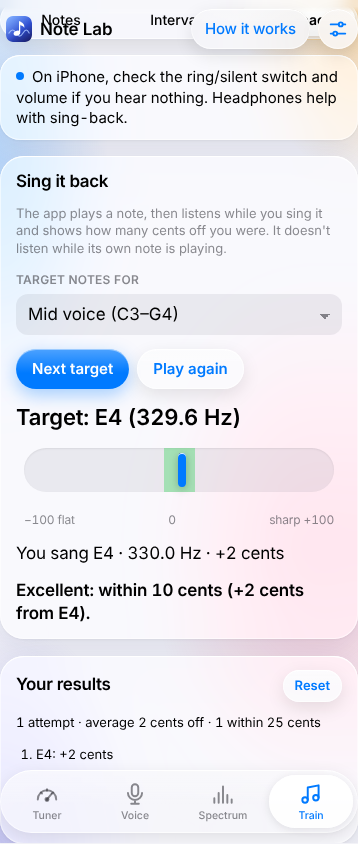
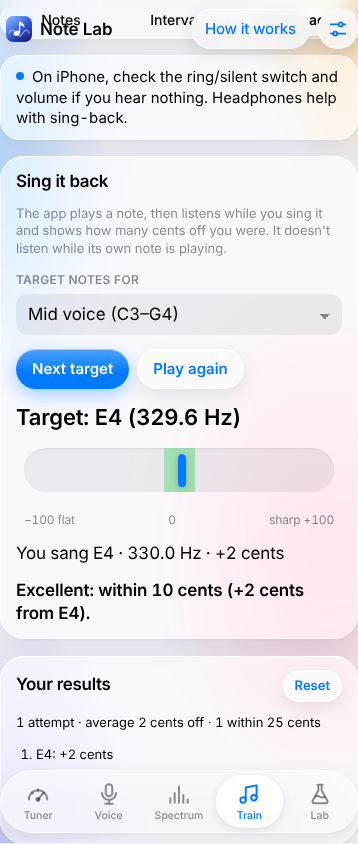
Test and document the waveform tool
Chromium with a fake 440 Hz mic reads T = 2.273 ms -> 440.0 Hz and
reports echo cancellation, noise suppression and auto gain off.

Claude-Session: https://claude.ai/code/session_01SxLsZFKHC9uUtv3xK6kA73

diff --git a/tools/browser-test.js b/tools/browser-test.js
@@ -62,6 +62,14 @@ const fakeMic = (file) => openPage([
   '--autoplay-policy=no-user-gesture-required',
 ], ['microphone']);
 
+// Screenshot of a Lab tool page from the top (the page header is sticky, so
+// element screenshots further down would have it drawn over them).
+async function labScreenshot(page, name) {
+  await page.evaluate(() => window.scrollTo(0, 0));
+  await page.waitForTimeout(200);
+  await page.screenshot({ path: `${ROOT}docs/screenshots/${name}.png` });
+}
+
 // Read an element 8 times over ~1.6 s; return the most common text and all readings.
 async function mostCommonText(page, selector) {
   const seen = {};
@@ -325,6 +333,38 @@ try {
     await page.goto(`${URL_}how-it-works.html`);
     const offlineGuide = (await page.textContent('h1')) === 'How it works';
     report(offlineOk && offlineGuide && !errors.length, 'works offline after the first visit (app and guide page)', errors.join(' '));
+    await browser.close();
+  }
+
+  // 3. Acoustics Lab ------------------------------------------------------
+
+  // 3.1 Waveform: a 440 Hz sine should show T = 2.273 ms → 440 Hz.
+  {
+    const { browser, page, errors } = await fakeMic('sine-A4.wav');
+    await page.click('#tab-lab');
+    report(await page.isVisible('#lab-grid') && !(await page.isVisible('#start-panel')), 'lab: menu opens without the microphone');
+    await page.click('#lab-open-waveform');
+    report(await page.isVisible('#lab-need-mic'), 'lab waveform: asks for the microphone first');
+    await page.click('#lab-start-mic');
+    await page.waitForTimeout(1200);
+    const { text: period } = await mostCommonText(page, '#wave-period');
+    const processing = await page.textContent('#mic-processing');
+    const info = await page.textContent('#tech-info');
+    report(period.startsWith('Period T = 2.27') && period.includes('440.') && info.includes('16384') && !errors.length,
+      'lab waveform: measured period of a 440 Hz tone', `"${period}" · ${info}${errors.length ? ` errors: ${errors}` : ''}`);
+    console.log(`      Chromium (desktop, fake mic) reports: ${processing}`);
+    await page.fill('#wave-span', '0');
+    await page.dispatchEvent('#wave-span', 'input');
+    report((await page.textContent('#wave-span-value')) === '2 ms across', 'lab waveform: time zoom');
+    await page.click('#wave-freeze');
+    report((await page.getAttribute('#wave-freeze', 'aria-pressed')) === 'true', 'lab waveform: freeze');
+    await page.click('#wave-freeze');
+    await page.fill('#wave-span', '2');
+    await page.dispatchEvent('#wave-span', 'input');
+    await page.waitForTimeout(300);
+    await labScreenshot(page, 'lab-waveform');
+    await page.click('#lab-back');
+    report(await page.isVisible('#lab-grid'), 'lab: back to the menu');
     await browser.close();
   }
 

diff --git a/README.md b/README.md
@@ -150,6 +150,57 @@ saved on the device:
 notes, octaves, cents, the formula with a worked example, harmonics, YIN, dBFS,
 limits and privacy. It also works offline.
 
+## Acoustics Lab
+
+The **Lab** tab has tools that teach the physics of sound. Each tool says
+what is **Measured** (by the microphone) and what is **Calculated** (from a
+model), and each has a *What am I looking at?* explanation and a *Formula*
+card: the formula, every symbol with its unit, a worked example and where the
+formula comes from. The maths lives in `js/acoustics.js`, tested in
+`tests/acoustics.test.js` with worked examples you can check by hand.
+
+**Microphone levels are relative.** Phone and laptop microphones aren't
+calibrated, so every dB value is **dBFS** (relative to the input's maximum),
+never a true sound pressure level.
+
+**Microphone processing.** The app asks the browser to turn off echo
+cancellation, noise suppression and automatic gain control. While listening,
+the bottom card shows what the browser **reports** it did
+(`MediaStreamTrack.getSettings()`):
+
+| Browser | Echo cancellation | Noise suppression | Auto gain | How we know |
+|---|---|---|---|---|
+| Desktop Chromium (fake mic in the automated test) | off | off | off | `tools/browser-test.js` |
+| iPhone Safari | *not yet checked* | | | Read the line under "Stop listening" and report back |
+
+A browser's report can't see processing done by the phone's hardware or
+operating system, so treat "off" as "the browser says it isn't adding any".
+
+### 1. Waveform (oscilloscope)
+
+Shows the microphone signal against time. **Time zoom** goes from 2 to 200 ms
+across the screen, and **height zoom** from ×1 to ×20 (it magnifies the
+picture, not the sound). **Steady display** starts each picture at a rising
+zero crossing (oscilloscope "triggering"), so repeating waves stand still.
+**Freeze** pauses it. When there's a clear pitch, one period **T** is marked
+and **f = 1/T** is shown.
+
+- *Formula:* f = 1/T (definition of frequency). Example: T = 2.2727 ms → f ≈ 440 Hz.
+- *Measured:* the wave, peak and RMS level (dBFS, relative), and the period
+  (via the YIN detector).
+- *How to test:* `npm test` (zero-crossing and period maths). Then Lab →
+  Waveform → Start microphone and whistle a steady note: the shape should
+  stand still and T should match the note (440 Hz ↔ 2.27 ms). The automated
+  browser test plays a 440 Hz tone and checks it reads `T = 2.273 ms → 440.0 Hz`.
+- *Assumptions and limits:* the height is a fraction of full scale, not
+  pressure in pascals. The display uses ~0.34 s of sound (16384 samples) and
+  shows the newest part. The trigger needs a wave that dips below −1% of full
+  scale, so very quiet sounds free-run (they don't stand still). The period
+  marker only appears when the pitch detector finds a clear pitch. The
+  microphone and the phone's own filters can change the wave's shape (for
+  example, they cut very low frequencies), so the shape is "as the mic sees
+  it", not the exact air pressure.
+
 ## How the detection works
 
 ### From frequency to note (`js/pitch-math.js`)
